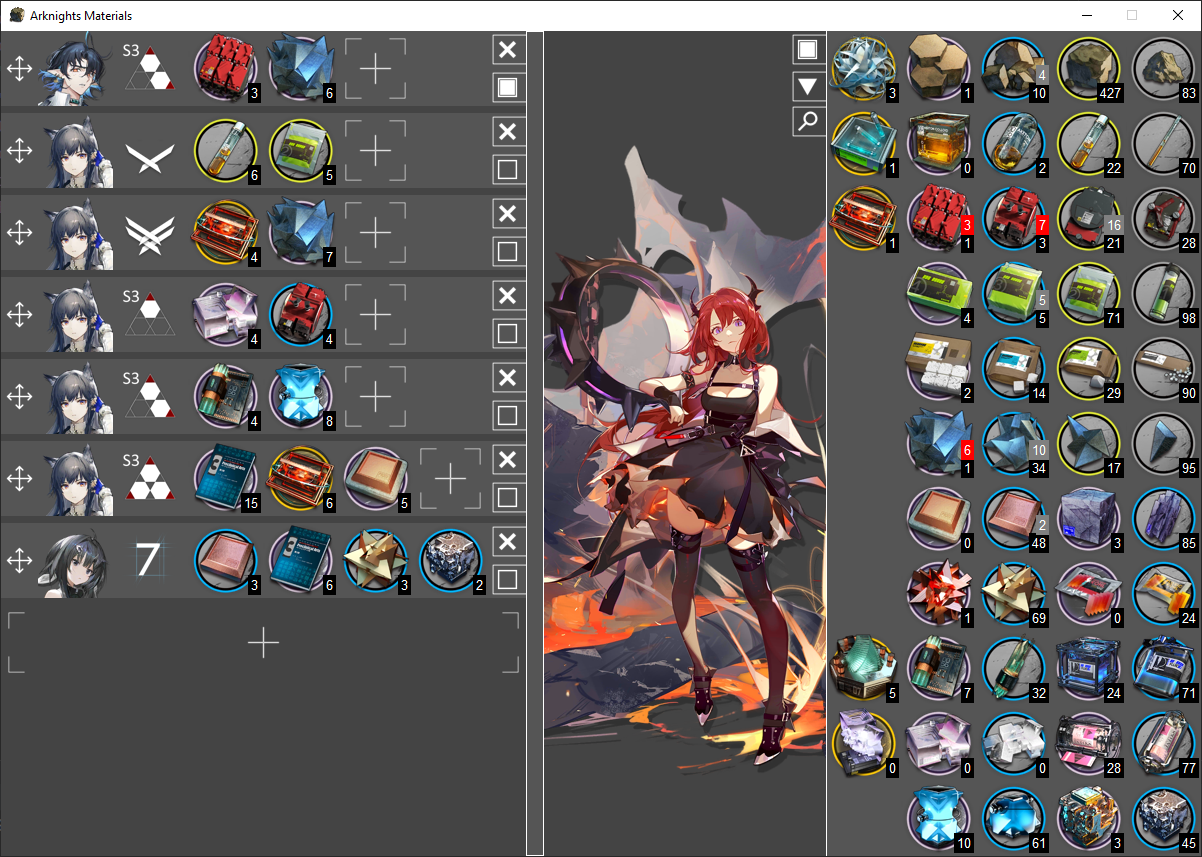
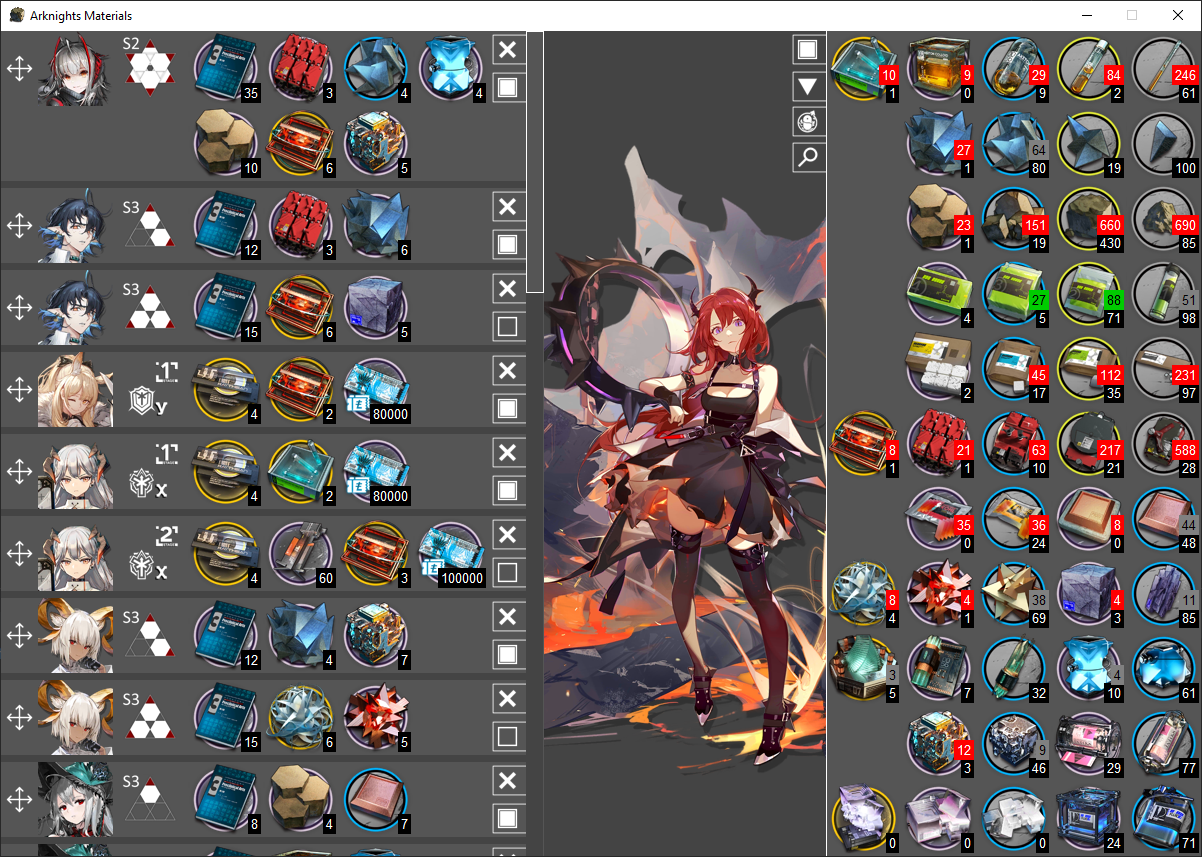
fix config typo, update main screenshot for readme

diff --git a/util.py b/util.py
@@ -20,11 +20,11 @@ class Config:
                  amountColor = "black",
                  amountColorFont = "white",
                  depotColorSufficient = "gray",
-                 depotColorSufficientFont = "white",
+                 depotColorSufficientFont = "black",
                  depotColorCraftable = "#00DD00",
                  depotColorCraftableFont = "black",
                  depotColorInsufficient = "red",
-                 depotColorInsufficientFont ="black",
+                 depotColorInsufficientFont ="white",
                  gamepressUrl ="https://gamepress.gg/arknights/operator/",
                  depotParsingEnabled = True,
                  arknightsContainer = "BlueStacks",
